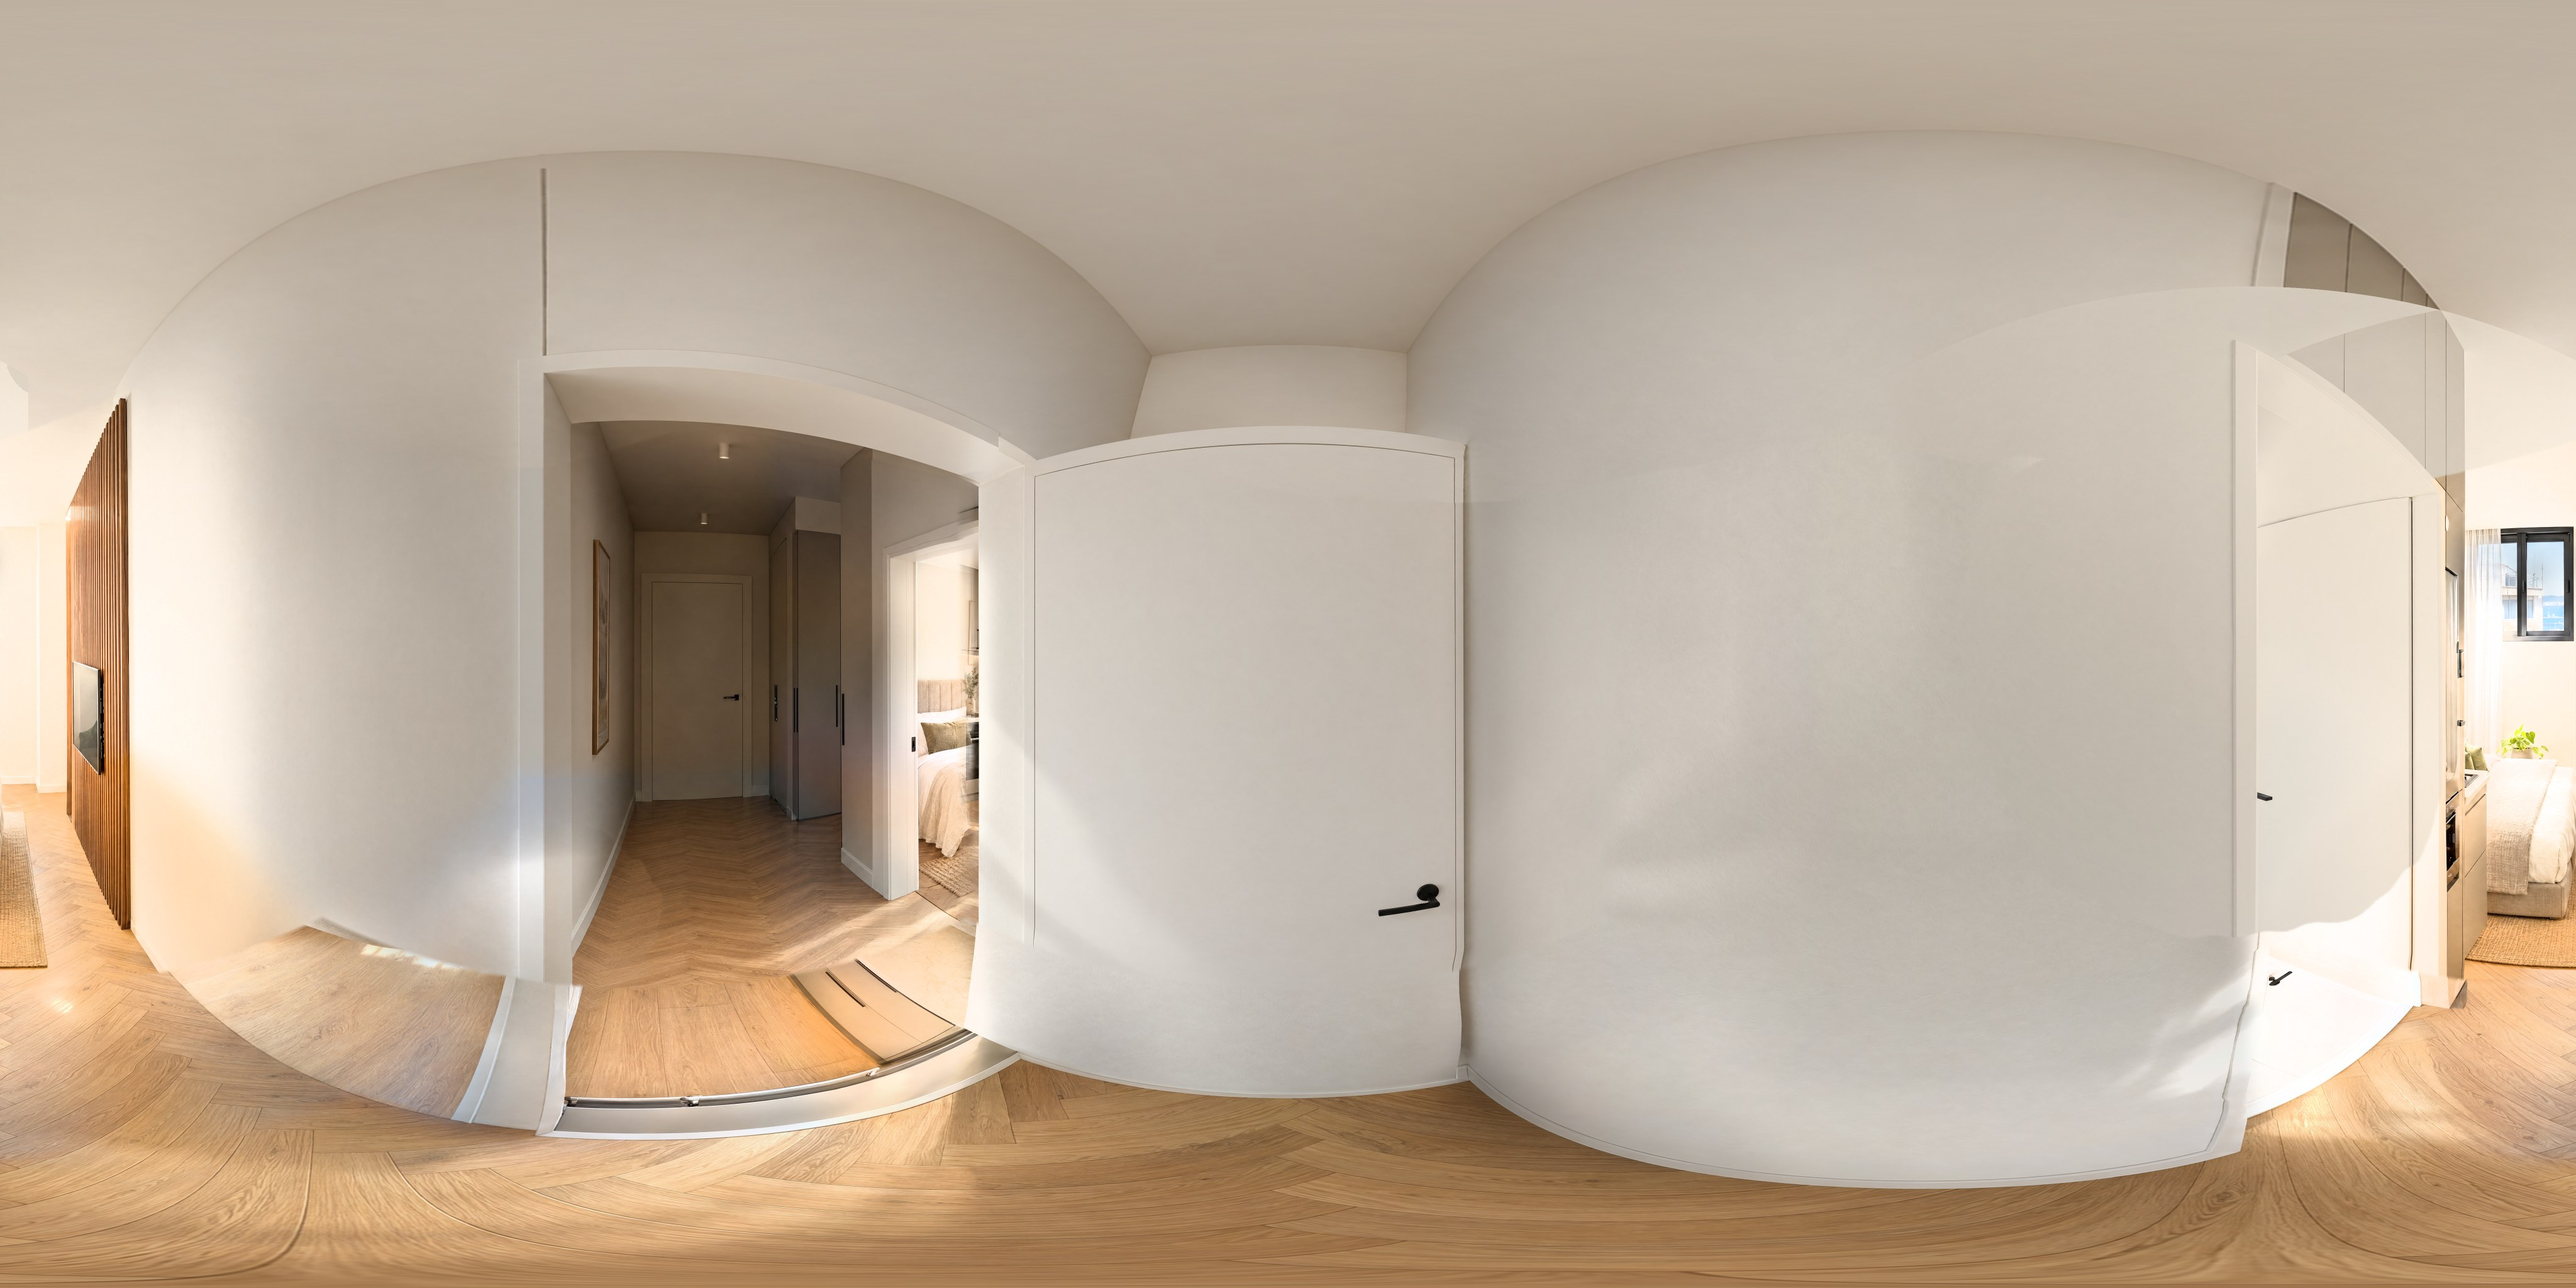
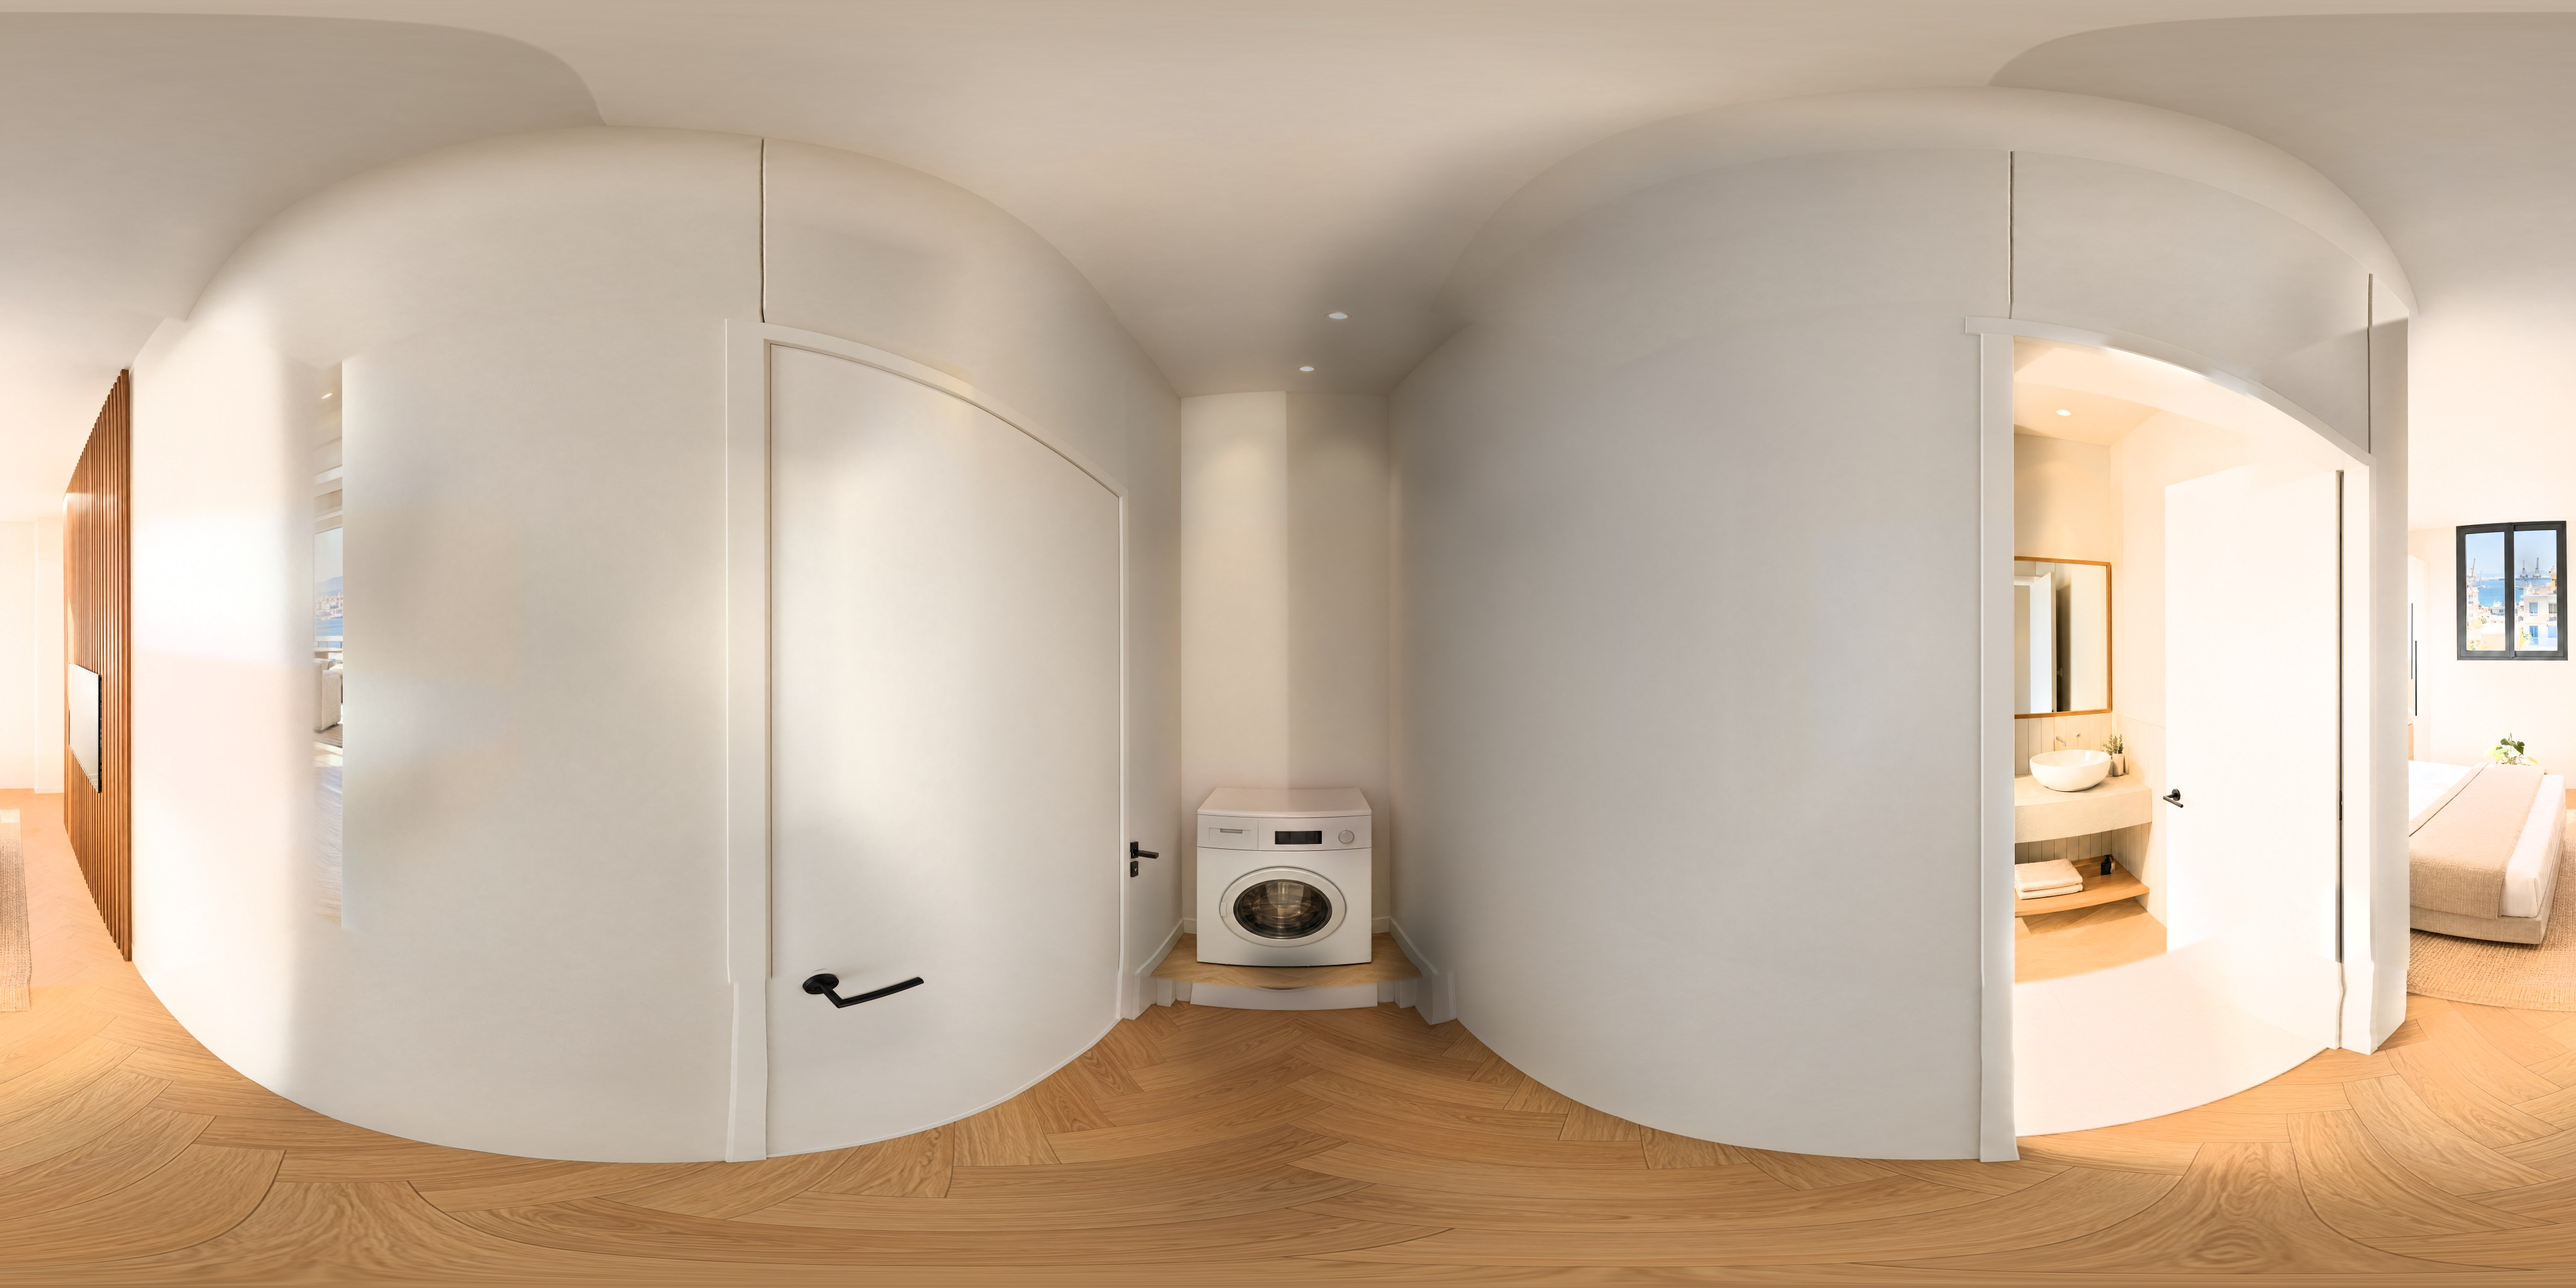
Web edition b7d40a2 (v2.0.127): v2.0.127

diff --git a/sw.js b/sw.js
@@ -1,4 +1,4 @@
-const V = 'mz-a761328-2026-11-07-949b2cb1';
+const V = 'mz-b7d40a2-2026-11-08-66951acb';
 const SHELL = ['./', './index.html', './manifest.webmanifest', './pwa/icon-192.png', './pwa/icon-512.png', './pwa/apple-touch-icon.png'];
 self.addEventListener('install', (e) => { e.waitUntil(caches.open(V).then((c) => c.addAll(SHELL)).then(() => self.skipWaiting())); });
 self.addEventListener('activate', (e) => {
